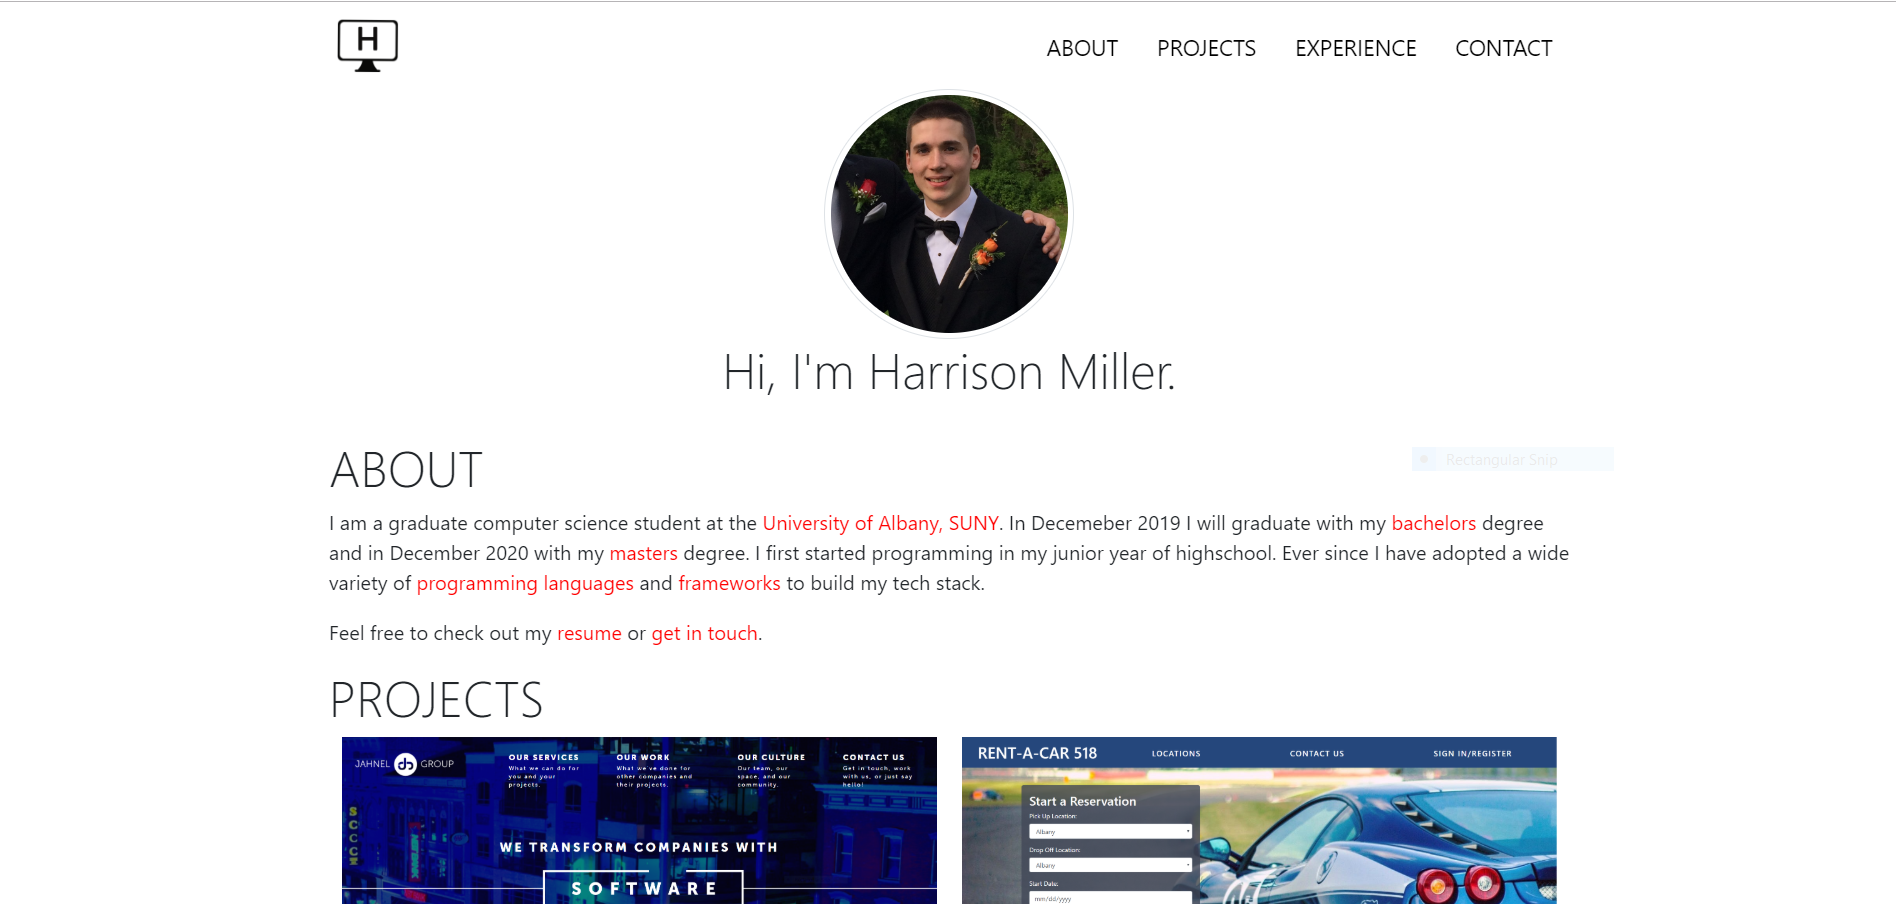
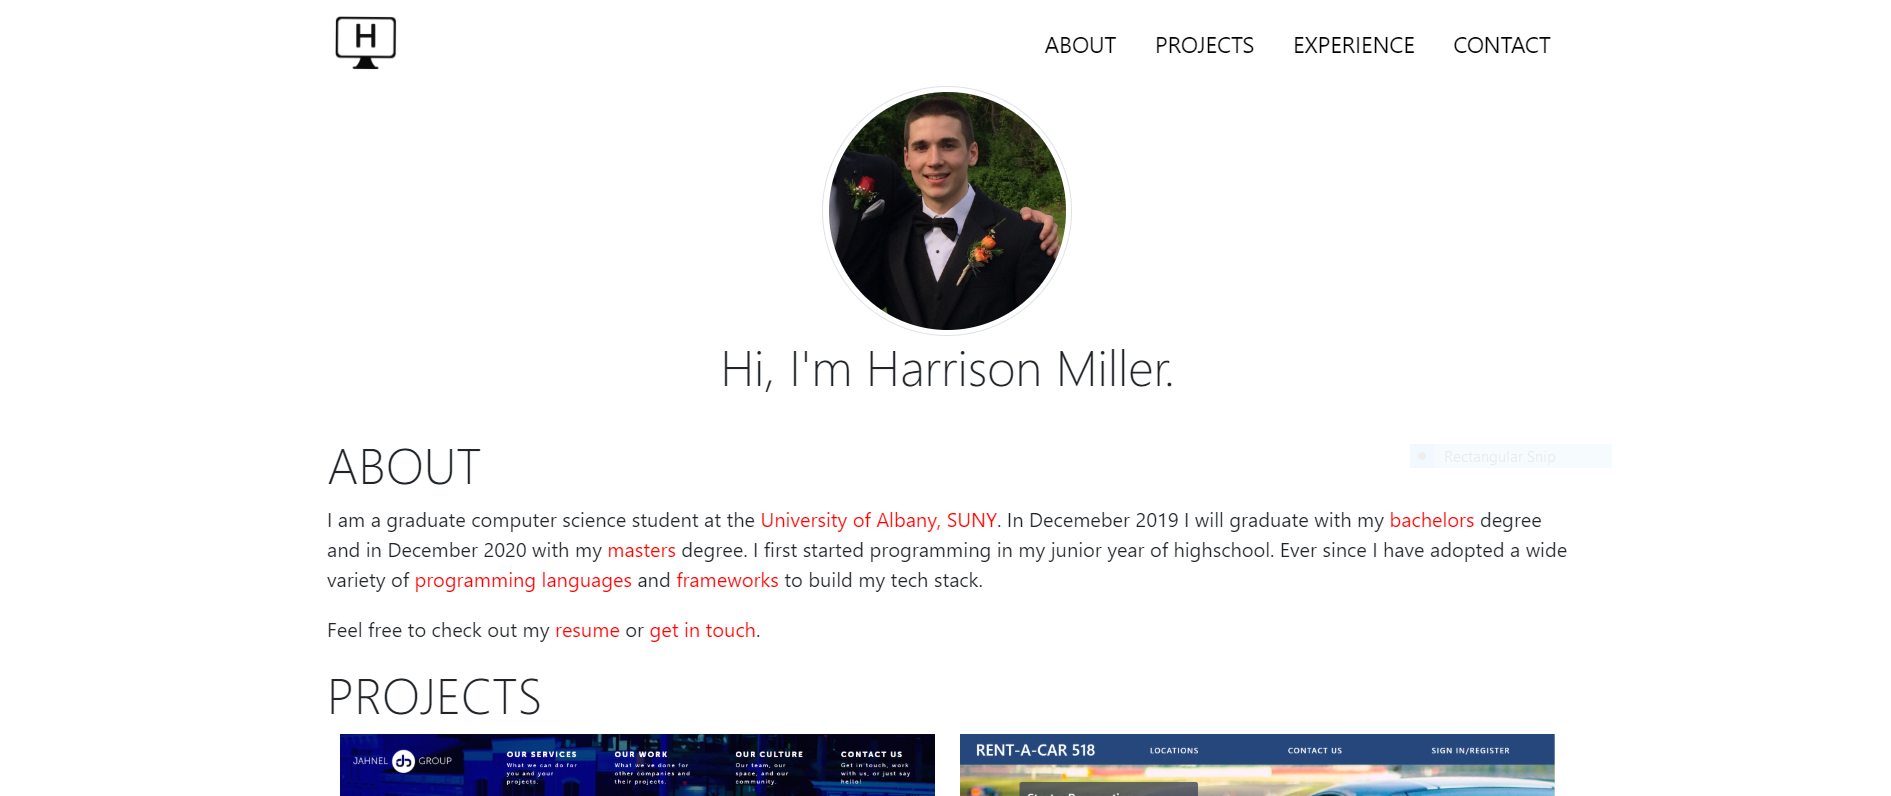
Updated portait picture and revamped project section

diff --git a/index.html b/index.html
@@ -64,7 +64,7 @@
 
     <!-- BEGIN INTRO -->
     <div class="section intro" id="intro">
-      <img src="assets/harrison.JPG" class="img-fluid rounded-circle img-thumbnail mx-auto d-block portrait">
+      <img src="assets/harrison2cropped.jpg" class="img-fluid rounded-circle img-thumbnail mx-auto d-block portrait">
       <h1 class="introHeader">Hi, I'm Harrison Miller.</h1>
     </div>
     <!-- END INTRO -->
@@ -89,79 +89,59 @@
 
       <div class="row">
 
-          <div class="project col-md-6">
-            <a target="_blank" href="https://harrisonmiller.github.io/JG-Website-2.0/HTML/index.html">
-              <h1 class="d-md-none mobileProjectHeader">Jahnel Group Website</h1>
-              <img src="assets/project_jg_website.PNG" class="img-fluid">
-              <div class="d-none d-lg-block overlay">
-                <p class="projectHeader">Jahnel Group Website</p>
-                <p class="caption">While interning at Jahnel Group I was tasked with implementing their static website redesign.
-                  This project taught me a ton about bootstrap and front end development in general.
-                  <br>
-                  <br>
-                  Technologies:
-                  <br>
-                  HTML &nbsp; CSS &nbsp; JavaScript &nbsp; BootStrap &nbsp; jQuery &nbsp; Git
-                </p>
-              </div>
-            </a>
+        <div class="col-md-6">
+          <div class="card project">
+            <img class="card-img-top" src="assets/project_jg_website.PNG" alt="Card image cap">
+            <div class="card-body">
+              <h5 class="card-title">Jahnel Group Website</h5>
+              <p class="card-text">While interning at Jahnel Group I was tasked with implementing their static website redesign.
+                This project taught me a lot about bootstrap and front end development.</p>
+              <p class="card-text">Technologies: HTML, CSS, JavaScript, Bootstrap</p>
+              <a target="_blank" href="https://harrisonmiller.github.io/JG-Website-2.0/HTML/index.html" class="btn btn-dark">View Project</a>
+            </div>
           </div>
+        </div>
 
-          <div class="project col-md-6">
-            <a target="_blank" href="https://github.com/harrisonmiller/Rent-A-Car-518">
-              <h1 class="d-md-none mobileProjectHeader">Rent-A-Car 518</h1>
-              <img src="assets/project_rentacar518.PNG" class="img-fluid">
-              <div class="d-none d-lg-block overlay">
-                <p class="projectHeader">Rent-A-Car 518</p>
-                <p class="caption">Graduate level group coursework developed using the agile methodology.  This web app is built to allow users
-                  to create an account and purchase rental cars.  I built most of the front end and created some API calls with spring boot.
-                  <br>
-                  <br>
-                  Technologies:
-                  <br>
-                  HTML &nbsp; CSS &nbsp; JavaScript &nbsp; BootStrap &nbsp; Java &nbsp; Spring Boot
-                </p>
-              </div>
-            </a>
+        <div class="col-md-6">
+          <div class="card project">
+            <img class="card-img-top" src="assets/project_rentacar518.PNG" alt="Card image cap">
+            <div class="card-body">
+              <h5 class="card-title">Rent-A-Car 518</h5>
+              <p class="card-text">Graduate level group coursework developed using the agile methodology. This web app is built to allow users
+                to create an account and purchase rental cars.</p>
+              <p class="card-text">Technologies: HTML, CSS, JavaScript, Bootstrap, jQuery, Git</p>
+              <a target="_blank" href="https://github.com/harrisonmiller/Rent-A-Car-518" class="btn btn-dark">View Project</a>
+            </div>
           </div>
+        </div>
 
       </div>
 
       <div class="row">
 
-        <div class="project col-md-6">
-          <a target="_blank" href="https://slipreserve.link/index.html">
-            <h1 class="d-md-none mobileProjectHeader">Slip Reserve</h1>
-            <img src="assets/project_slipreserve.PNG" class="img-fluid">
-            <div class="d-none d-lg-block overlay">
-              <p class="projectHeader">Slip Reserve</p>
-              <p class="caption">This is a serverless web application developed through AWS.  Users can create an account and reserve overnight space
-                 for their boat at marinas.
-                <br>
-                <br>
-                Technologies:
-                <br>
-                Java &nbsp; AWS &nbsp; HTML &nbsp; JavaScript &nbsp; CSS
-              </p>
+        <div class="col-md-6">
+          <div class="card project">
+            <img class="card-img-top" src="assets/project_slipreserve.PNG" alt="Card image cap">
+            <div class="card-body">
+              <h5 class="card-title">Slip Reserve</h5>
+              <p class="card-text">A serverless web application developed through AWS.  Users can create an account and reserve overnight space
+              for their boat at marinas.  This was my first experience developing a front end.</p>
+              <p class="card-text">Technologies: AWS, HTML, CSS, JavaScript</p>
+              <a target="_blank" href="https://slipreserve.link/index.html" class="btn btn-dark">View Project</a>
             </div>
-          </a>
+          </div>
         </div>
 
-        <div class="project portfolioWebsite col-md-6">
-          <a target="_blank" href="https://github.com/harrisonmiller/PersonalWebsite">
-            <h1 class="d-md-none mobileProjectHeader">Portfolio Website</h1>
-            <img src="assets/project_personalwebsite.PNG" class="img-fluid">
-            <div class="d-none d-lg-block overlay">
-              <p class="projectHeader">Portfolio Website</p>
-              <p class="caption">This website itself!  Deployed on AWS and all.
-                <br>
-                <br>
-                Technologies:
-                <br>
-                AWS &nbsp; HTML &nbsp; JavaScript &nbsp; CSS &nbsp; BootStrap
-              </p>
+        <div class="col-md-6">
+          <div class="card project">
+            <img class="card-img-top" src="assets/project_personalwebsite.PNG" alt="Card image cap">
+            <div class="card-body">
+              <h5 class="card-title">Portfolio Website</h5>
+              <p class="card-text">This website itself!  Deployed on AWS using S3, Route53, and CloudFront.</p>
+              <p class="card-text">Technologies: AWS, HTML, CSS, JavaScript, Bootstrap</p>
+              <a target="_blank" href="https://github.com/harrisonmiller/PersonalWebsite" class="btn btn-dark">View Project</a>
             </div>
-          </a>
+          </div>
         </div>
 
       </div>
@@ -200,26 +180,26 @@
       <div class="row">
         <div class="col-md-3 contactCol">
           <a href="mailto:hdmiller@albany.edu" target="_top">
-          <h1 class="contactHeader">Email</h1>
-          <img src="assets/contact_email.png" class="img-fluid mx-auto d-block">
+            <h1 class="contactHeader">Email</h1>
+            <img src="assets/contact_email.png" class="img-fluid mx-auto d-block">
           </a>
         </div>
         <div class="col-md-3 contactCol">
           <a href="https://github.com/harrisonmiller" target="_blank">
-          <h1 class="contactHeader">GitHub</h1>
-          <img src="assets/contact_github.png" class="img-fluid mx-auto d-block">
+            <h1 class="contactHeader">GitHub</h1>
+            <img src="assets/contact_github.png" class="img-fluid mx-auto d-block">
           </a>
         </div>
         <div class="col-md-3 contactCol">
           <a href="https://www.linkedin.com/in/harrisondmiller/" target="_blank">
-          <h1 class="contactHeader">LinkedIn</h1>
-          <img src="assets/contact_linkedin.png" class="img-fluid mx-auto d-block">
+            <h1 class="contactHeader">LinkedIn</h1>
+            <img src="assets/contact_linkedin.png" class="img-fluid mx-auto d-block">
           </a>
         </div>
         <div class="col-md-3 contactCol">
           <a href="https://drive.google.com/file/d/1wXjKvRNWBSmBSzu_8pGejHXi-bpq4qcf/view?usp=sharing" target="_blank">
-          <h1 class="contactHeader">Resume</h1>
-          <img src="assets/contact_resume.png" class="img-fluid mx-auto d-block">
+            <h1 class="contactHeader">Resume</h1>
+            <img src="assets/contact_resume.png" class="img-fluid mx-auto d-block">
           </a>
         </div>
       </div>
@@ -229,7 +209,7 @@
     <!-- BEGIN FOOTER -->
     <footer>
       <p>hdmiller@albany.edu</p>
-      <p>Designed and built by Harrison Miller.</p
+      <p>Designed and built by Harrison Miller.</p>
       <a href="mailto:hdmiller@albany.edu" target="_top"><i class="fa fa-envelope fa-2x"></i></a>
       <a href="https://github.com/harrisonmiller" target="_blank"><i class="fa fa-github fa-2x"></i></a>
       <a href="https://www.linkedin.com/in/harrisondmiller/" target="_blank"><i class="fa fa-linkedin fa-2x"></i></a>

diff --git a/index.css b/index.css
@@ -80,14 +80,18 @@ body {
   max-height: 200px;
 }
 
+.col-md-6{
+  padding-right: 10px;
+  padding-left: 10px;
+  display: flex;
+}
+
 .project{
 	overflow: hidden;
 	height: auto;
   margin-bottom: 50px;
   margin-left: auto;
   margin-right: auto;
-  padding-left: 10px;
-  padding-right: 10px;
 }
 
 .projectHeader{
@@ -113,16 +117,15 @@ body {
 }
 
 .project p{
-  padding-left: 10px;
-  padding-right: 10px;
   padding-top: 5px;
-  margin-bottom: 0;
+  margin-bottom: .75rem;
 }
 
 .project img{
   display: block;
   width: 100%;
   height: auto;
+  border-bottom: 1px solid rgba(0,0,0,.125);
 }
 
 .overlay{
